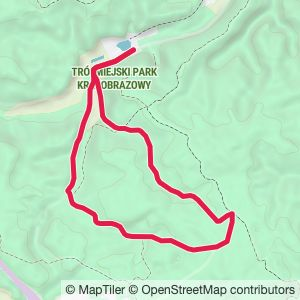
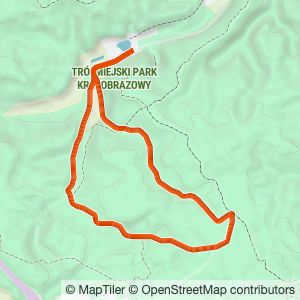
Harden the route preview capture script, regenerate previews
- Disable Vite's file watcher during capture (DISABLE_WATCH=true, wired
  into astro.config.mjs's vite.server.watch) - the capture scripts write
  screenshots into src/content/routes/**/*.jpg while astro dev is
  running, and its watcher was picking those writes up as content
  changes and reloading mid-capture.
- Give the dev server more head start before the capture script starts
  hitting it (sleep 1 -> sleep 10).
- Reduce the per-attempt map-load timeout from 30s to 5s and retry a
  route up to 5 times on timeout, reusing a single page/tab across
  attempts instead of opening a new one each time.
- Regenerate the route preview JPEGs so they pick up the width-wise
  trail gradient from the earlier commits on this branch.

Claude-Session: https://claude.ai/code/session_01AtzkT6aKwmoCKon3AKtXRy

Changed region(s): [[0.21, 0.15, 0.81, 0.84]]

diff --git a/scripts/capture-route-preview.js b/scripts/capture-route-preview.js
@@ -1,7 +1,17 @@
-import puppeteer from "puppeteer";
+import puppeteer, { TimeoutError } from "puppeteer";
 import fs from "fs";
 
 const BASE_PATH = "src/content";
+// HEADED=true opens a real, visible browser window instead of running
+// headless - useful when a capture hangs/times out and you want to watch
+// what the page is actually doing.
+const HEADED = process.env.HEADED === "true";
+
+// The dev server / map tiles can be slow enough on a cold start that a
+// route's first attempt times out for reasons that have nothing to do with
+// that route - retrying a few times before giving up avoids failing the
+// whole run over transient slowness.
+const MAX_ATTEMPTS = 5;
 
 const list = fs.readdirSync(`${BASE_PATH}/routes`);
 const routes = list.filter((name) => {
@@ -9,9 +19,13 @@ const routes = list.filter((name) => {
 });
 
 async function captureRoutePreview({ page, route }) {
+  console.log("Opening " + `http://localhost:4321/preview/${route}`);
   await page.goto(`http://localhost:4321/preview/${route}`);
 
-  await page.waitForSelector(".maplibregl-map", { timeout: 30_000 });
+  // waitForSelector actively waits (up to timeout) for the element to
+  // appear - unlike page.$(), which just queries the DOM once, right now,
+  // and returns null if the map hasn't mounted yet.
+  await page.waitForSelector(".maplibregl-map", { timeout: 5_000 });
 
   await page.waitForNetworkIdle();
 
@@ -22,9 +36,28 @@ async function captureRoutePreview({ page, route }) {
   });
 }
 
+function attachDiagnostics(page) {
+  // Surface what's happening inside the page - console output, uncaught
+  // JS errors, and failed network requests (e.g. a blocked/unreachable
+  // MapTiler request) - since none of that shows up in this script's own
+  // output otherwise, and a hung capture gives no other clue why.
+  page.on("console", (msg) => {
+    console.log(`  [browser:${msg.type()}] ${msg.text()}`);
+  });
+  page.on("pageerror", (err) => {
+    console.error(`  [browser:pageerror] ${err}`);
+  });
+  page.on("requestfailed", (req) => {
+    console.error(
+      `  [browser:requestfailed] ${req.url()} - ${req.failure()?.errorText}`,
+    );
+  });
+}
+
 async function run() {
-  const browser = await puppeteer.launch();
-  const page = await browser.newPage();
+  const browser = await puppeteer.launch({ headless: !HEADED });
+
+  const failedRoutes = [];
 
   for (const route of routes) {
     if (
@@ -35,10 +68,61 @@ async function run() {
       continue;
     }
 
-    await captureRoutePreview({ page, route });
+    // A fresh page (tab) per route, closed right after capturing it (all
+    // retry attempts included) - each route mounts a brand-new MapLibre GL
+    // (WebGL) instance, and reusing one page/tab across dozens of routes can
+    // exhaust Chromium's limited pool of live WebGL contexts (navigating
+    // away with goto() doesn't reliably reclaim the previous route's context
+    // right away). Once that pool fills up, a later route's map silently
+    // never acquires a context and hangs forever waiting to load - a full
+    // new browser per route would dodge it too, but at the cost of a whole
+    // Chromium process launch per route for no extra benefit.
+    const page = await browser.newPage();
+    attachDiagnostics(page);
+
+    let succeeded = false;
+    let lastErr;
+
+    for (let attempt = 1; attempt <= MAX_ATTEMPTS; attempt++) {
+      try {
+        await captureRoutePreview({ page, route });
+        succeeded = true;
+      } catch (err) {
+        lastErr = err;
+        if (err instanceof TimeoutError && attempt < MAX_ATTEMPTS) {
+          console.error(
+            `Timed out capturing ${route} (attempt ${attempt}/${MAX_ATTEMPTS}), retrying...`,
+          );
+        }
+      }
+
+      // Only a timeout is worth retrying - anything else (a page error, a
+      // failed request) is unlikely to be transient, so fail fast instead
+      // of burning through the remaining attempts.
+      if (succeeded || !(lastErr instanceof TimeoutError)) {
+        break;
+      }
+    }
+
+    await page.close();
+
+    if (!succeeded) {
+      // Keep going on the rest of the routes instead of dying on the
+      // first failure - and report everything that failed at the end so
+      // one bad route doesn't hide errors from the others.
+      console.error(`Failed to capture ${route}:`, lastErr.message);
+      failedRoutes.push(route);
+    }
   }
 
-  browser.close();
+  await browser.close();
+
+  if (failedRoutes.length > 0) {
+    console.error(
+      `\n${failedRoutes.length} route(s) failed: ${failedRoutes.join(", ")}`,
+    );
+    process.exitCode = 1;
+  }
 }
 
 run();
